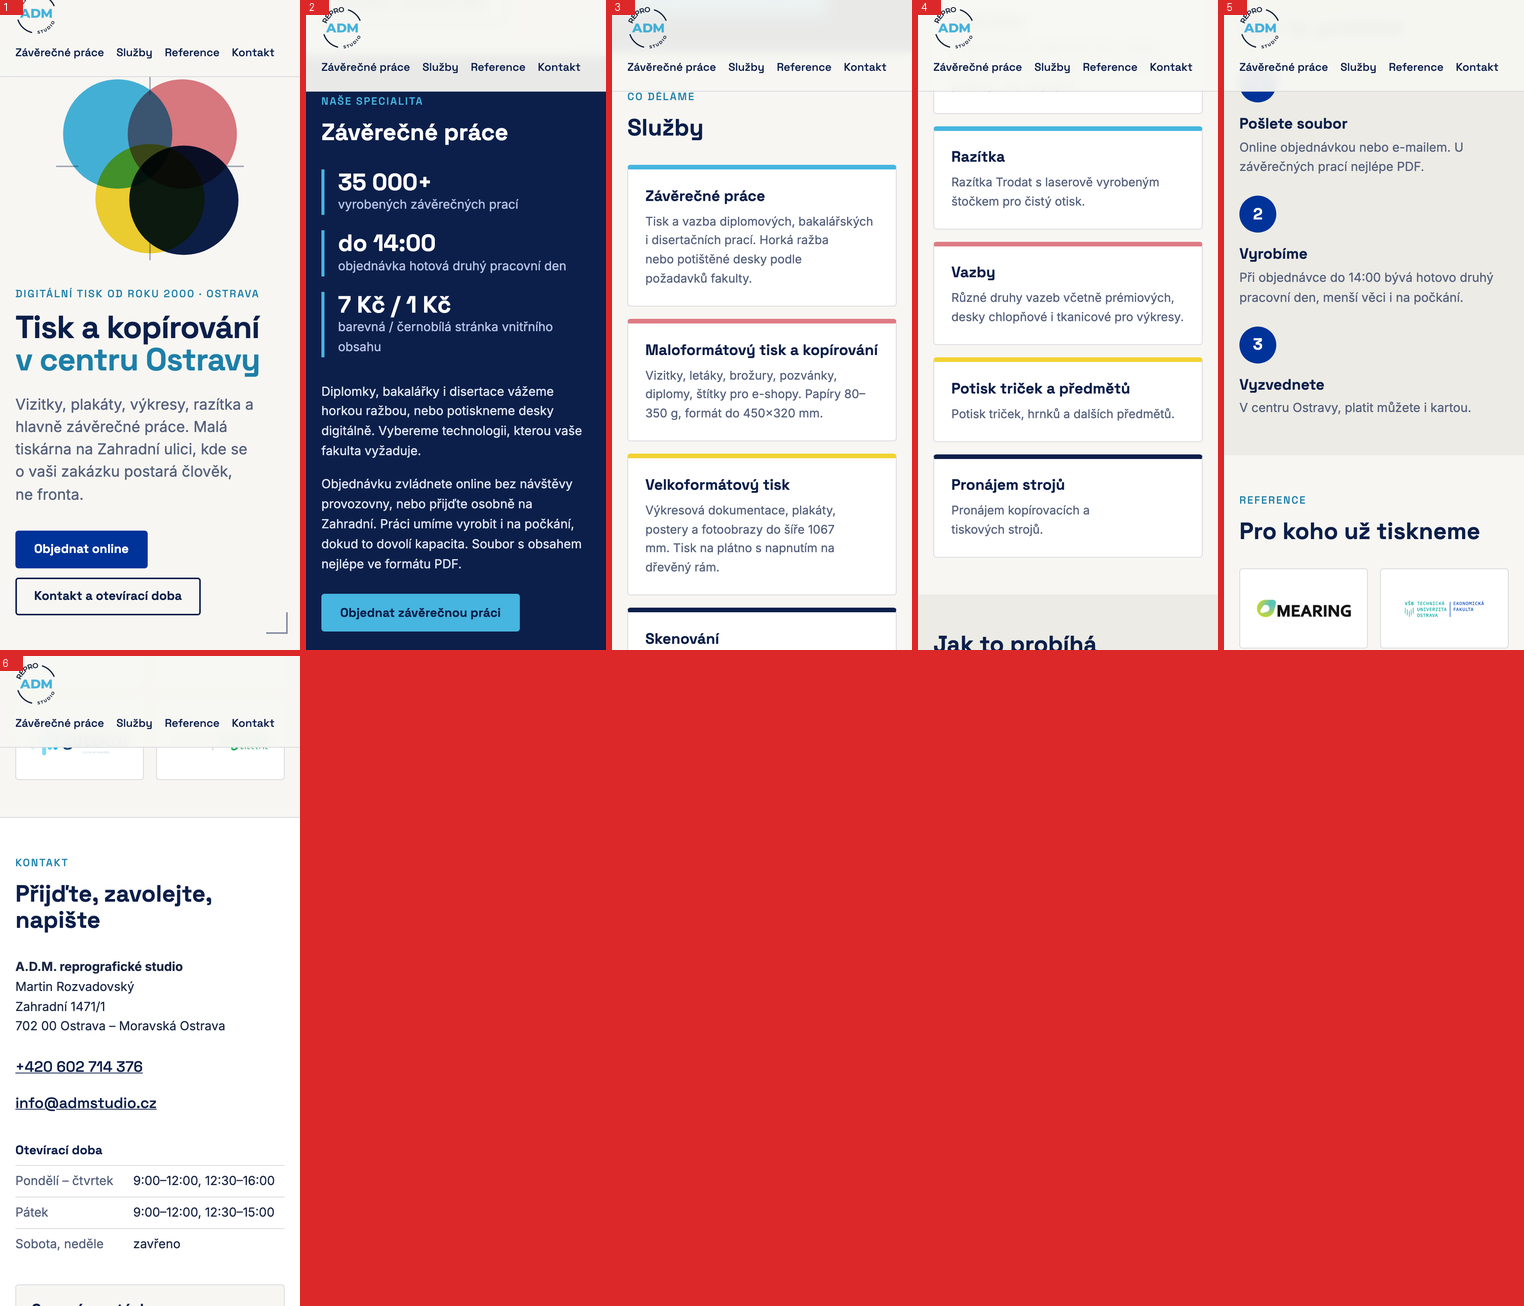
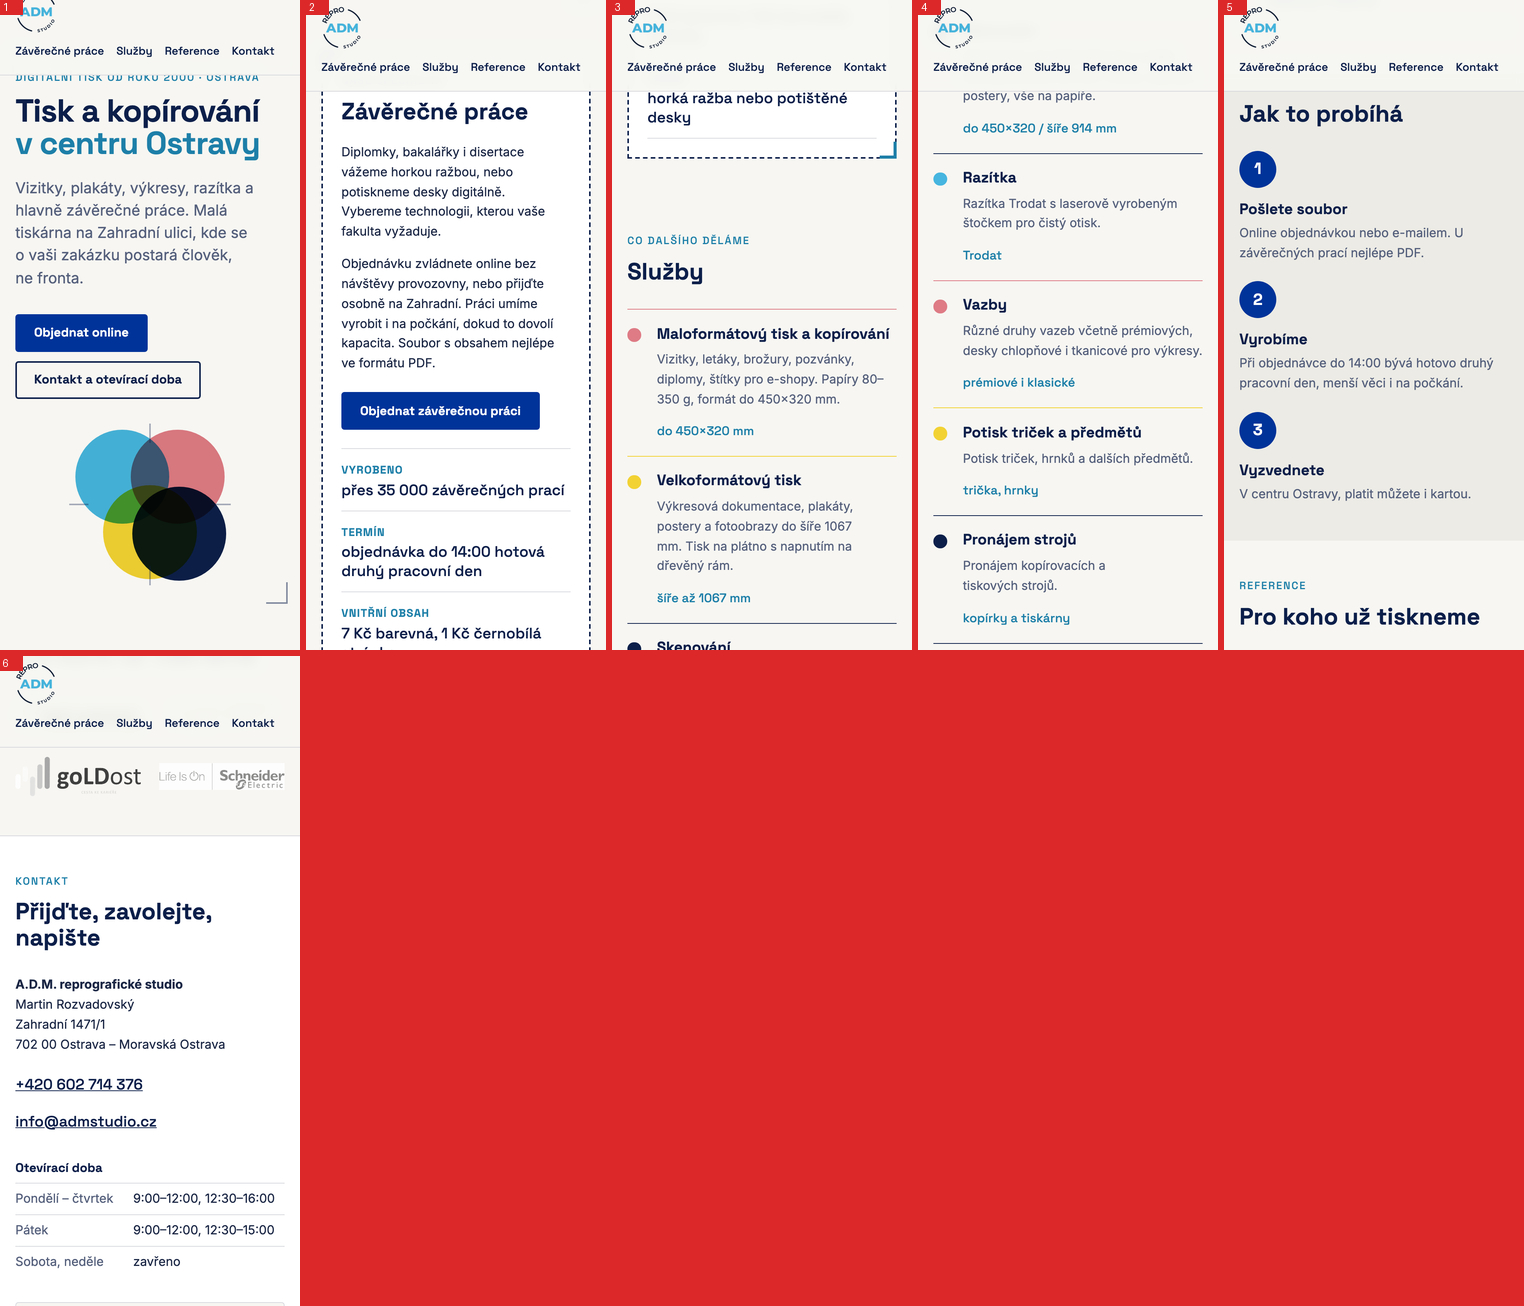
Aktualizace webu 2026-10-22 10:39

diff --git a/src/index.html b/src/index.html
@@ -28,7 +28,7 @@
       <div class="list-grid">
         <div class="list-text">
           <p>Diplomky, bakalářky i disertace vážeme horkou ražbou, nebo potiskneme desky digitálně. Vybereme technologii, kterou vaše fakulta vyžaduje.</p>
-          <p>Objednávku zvládnete online bez návštěvy provozovny, nebo přijďte osobně na Zahradní. Práci umíme vyrobit i na počkání, dokud to dovolí kapacita. Soubor s obsahem nejlépe ve formátu PDF.</p>
+          <p>Objednávku zvládnete online bez návštěvy provozovny, nebo přijďte osobně na Zahradní.  Soubor s obsahem nejlépe ve formátu PDF.</p>
           <a class="tl tl-hlavni" href="https://www.admstudio.cz/online-objednavka/" rel="noopener">Objednat závěrečnou práci</a>
         </div>
         <dl class="spec">
@@ -57,8 +57,8 @@
     <h2>Jak to probíhá</h2>
     <ol role="list" class="kroky">
       <li><b>1</b><h3>Pošlete soubor</h3><p>Online objednávkou nebo e-mailem. U závěrečných prací nejlépe PDF.</p></li>
-      <li><b>2</b><h3>Vyrobíme</h3><p>Při objednávce do 14:00 bývá hotovo druhý pracovní den, menší věci i na počkání.</p></li>
-      <li><b>3</b><h3>Vyzvednete</h3><p>V centru Ostravy, platit můžete i kartou.</p></li>
+      <li><b>2</b><h3>Vyrobíme</h3><p>Při objednávce do 14:00 bývá hotovo druhý pracovní den.</p></li>
+      <li><b>3</b><h3>Vyzvednete</h3><p>V centru Ostravy, na Zahradní 1471/1.</p></li>
     </ol>
   </div>
 </section>

diff --git a/static/css/style.css b/static/css/style.css
@@ -146,3 +146,9 @@ address { font-style: normal; margin-bottom: 1rem; }
   .cmyk { order: 0; width: min(60%, 14rem); }
   .ref { grid-template-columns: repeat(2, 1fr); }
 }
+
+.sluzby p { font-size: 1rem; line-height: 1.6; color: #2b3345; max-width: 38rem; }
+.ref img { height: 40px; mix-blend-mode: multiply; filter: grayscale(1) contrast(1.1) brightness(.9); opacity: .8; }
+.ref img[src*="ekf"] { height: 64px; }
+.ref img[src*="mearing"] { filter: grayscale(1) brightness(1.6); }
+@media (max-width: 52rem) { .ref img { height: 32px; } .ref img[src*="ekf"] { height: 52px; } }
